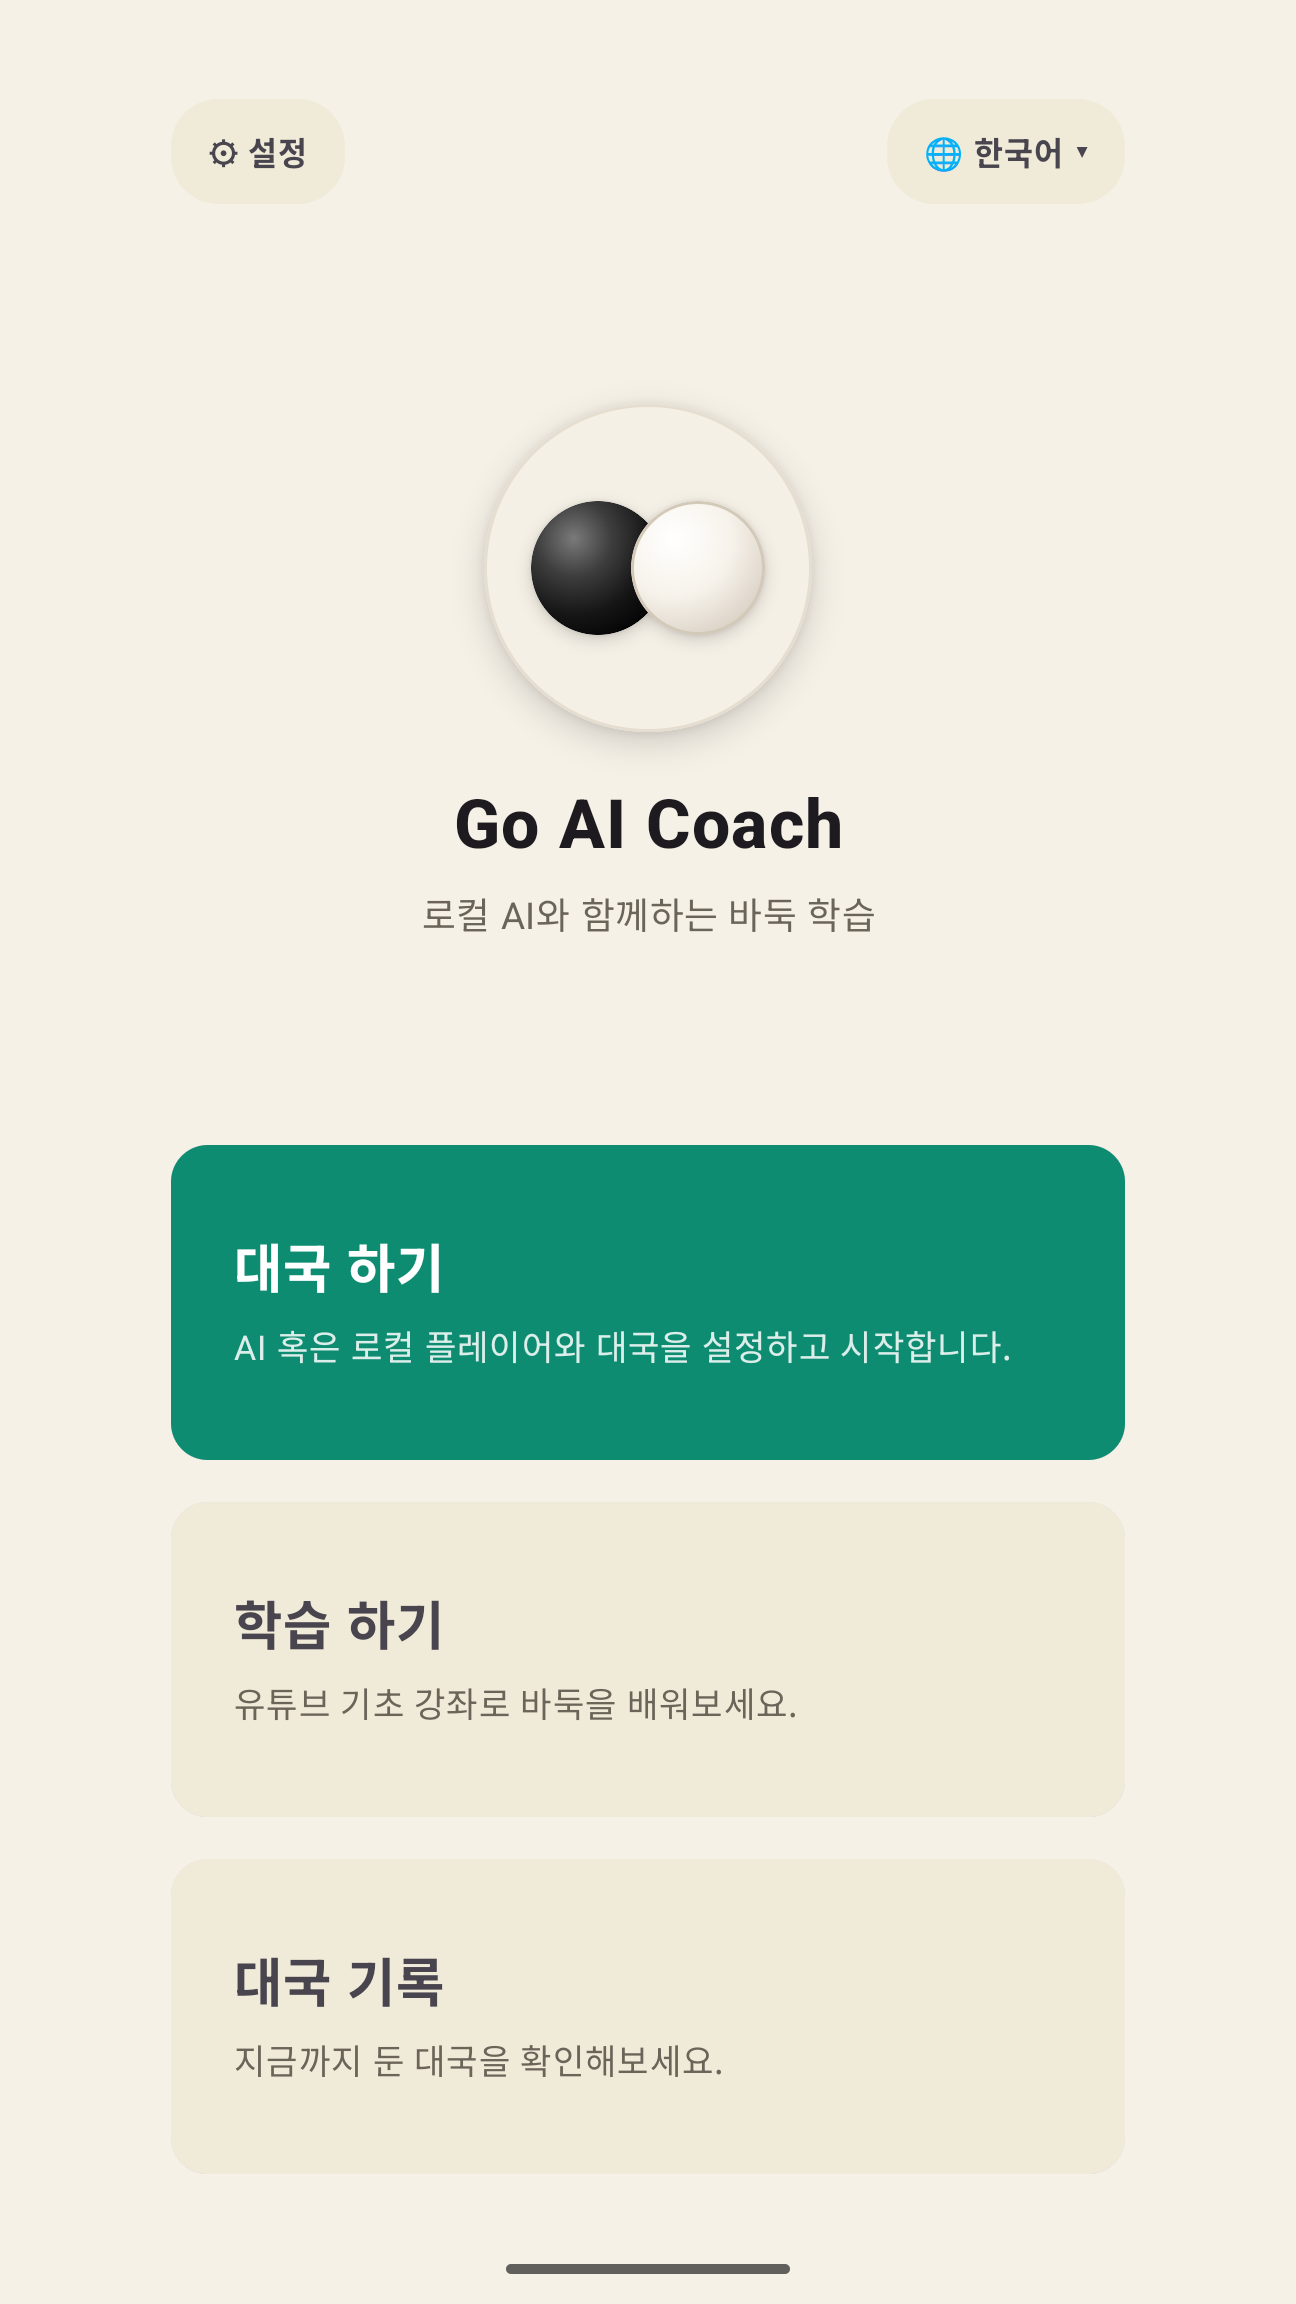
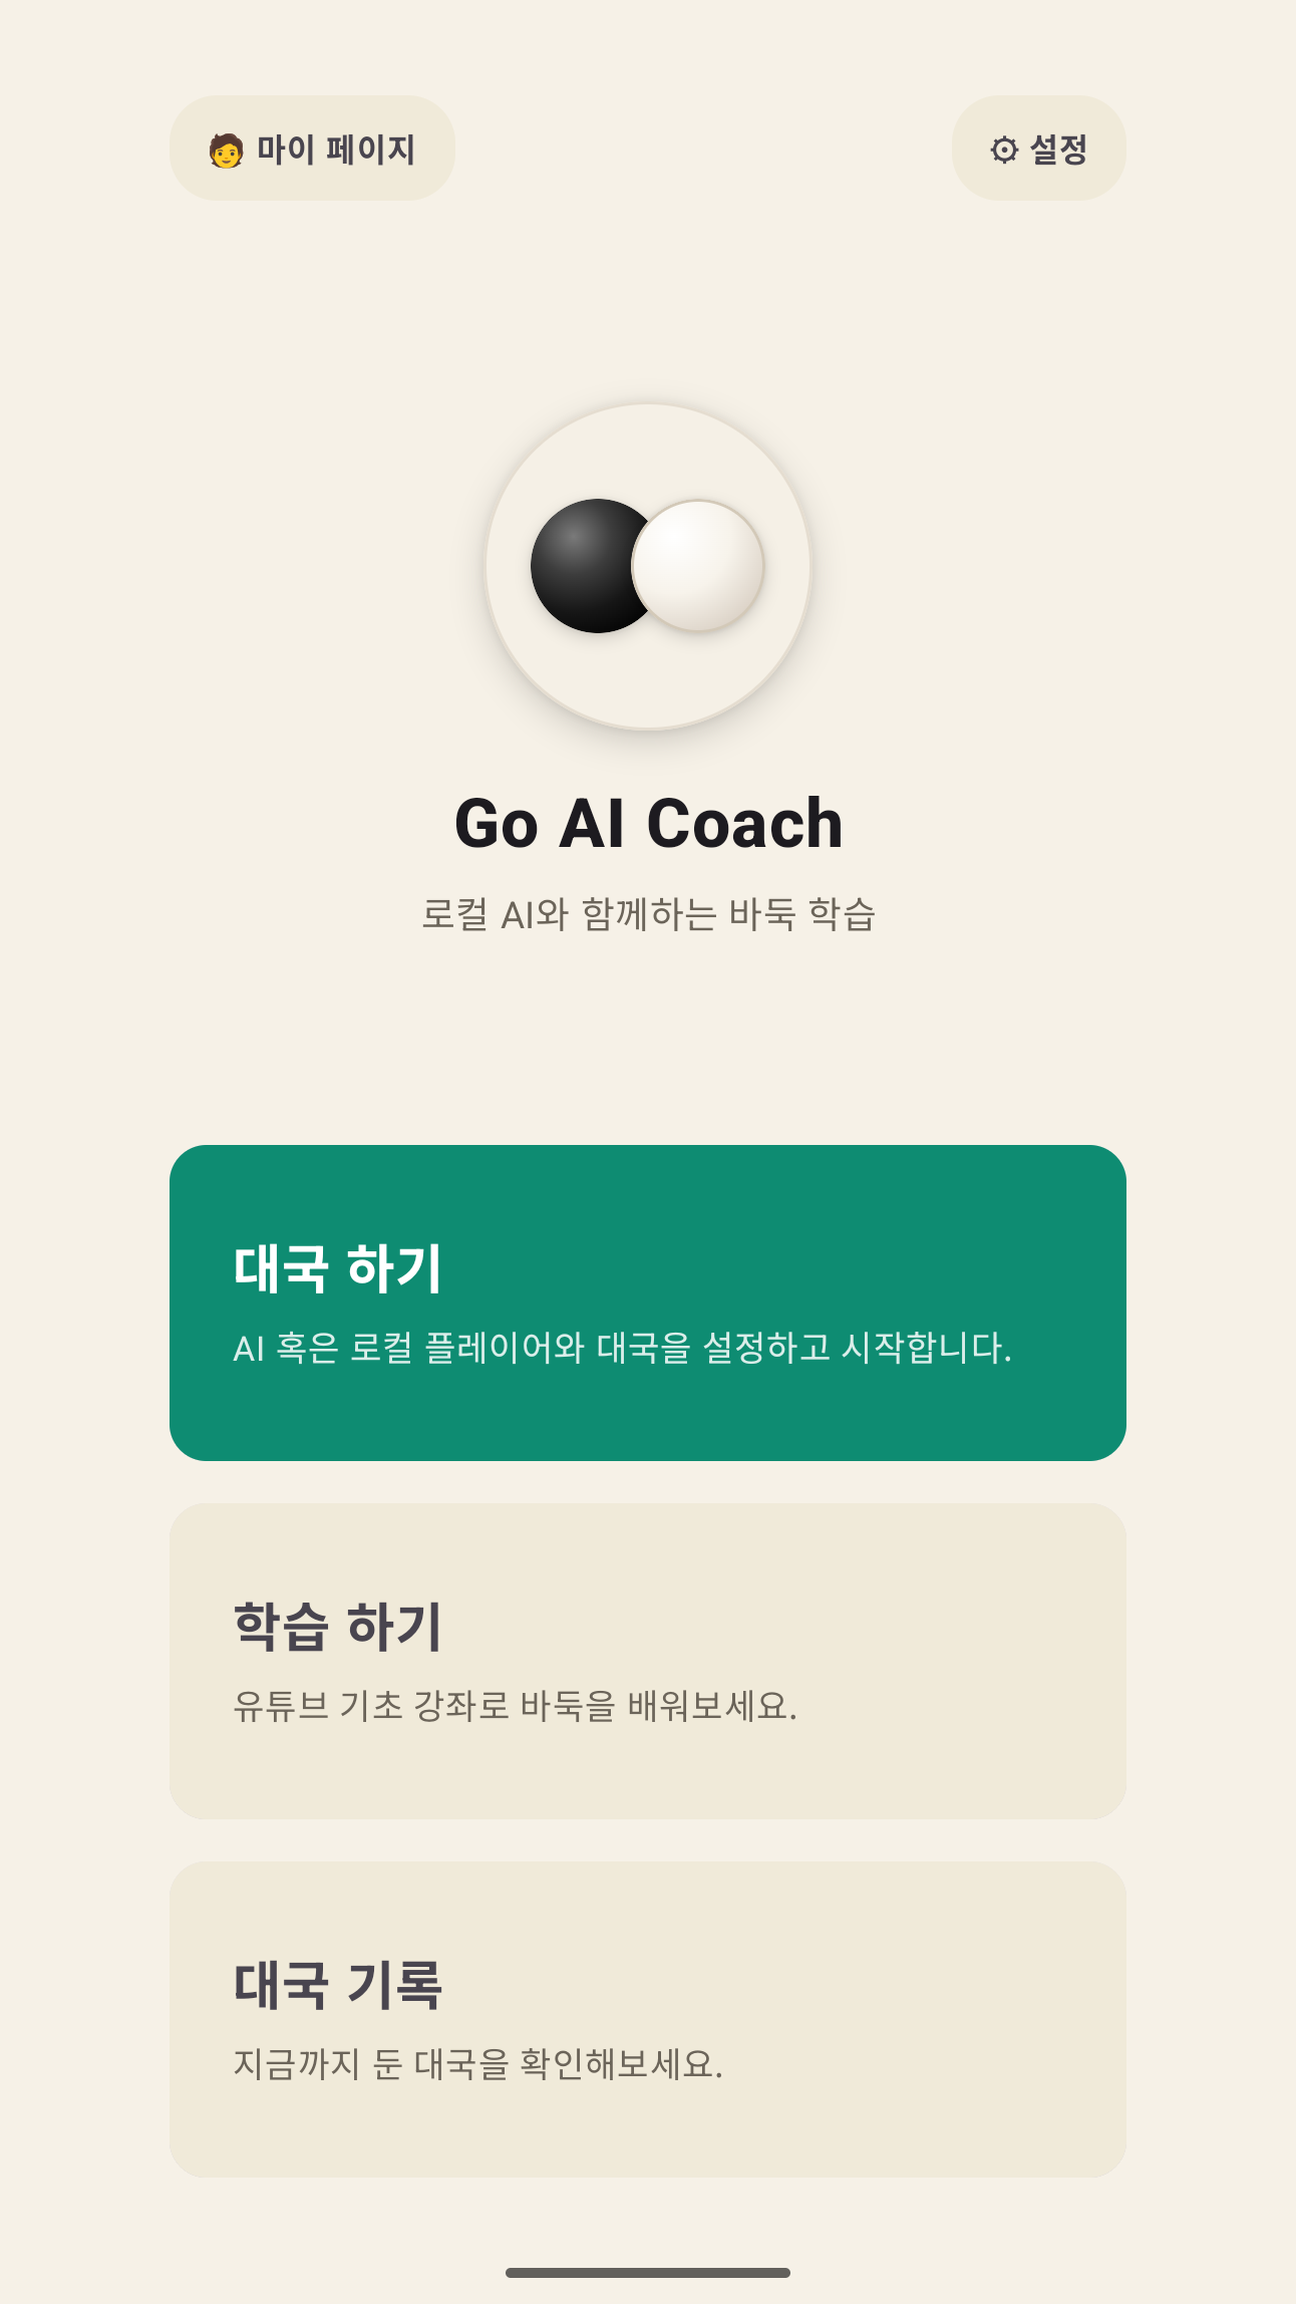
chore(release): recapture the store screenshots and build the private-test AAB (backlog #40)
All five shots were remade from HEAD 5b294f5 — the morning set went stale in
half a day once #34 reworked the home top bar and #35/#37/#38 reworked the game
screen. The 13x13 five-stone game was actually played out to move 21 on the
emulator rather than seeded, so the score graph and win rate are real engine
numbers.

The listing gained the three play controls this build introduced (play-mode
switch, play haptics, board size) and 01's description now matches the new home.
"No in-app purchases" still holds — both purchase flags are false.

⚠ One permission is new: VIBRATE, for the play haptics in #36. Comparing the
manifest against the previous local artifact (8/18) confirmed it is the only
addition and nothing was removed. It surfaces in the store's permission list, so
the feature list now names 착수 진동 explicitly.

AAB: 804 / 0.8.4, sha256 c8fefaae…584e25. Uploading is a console task.

diff --git a/design-handoff/export/2026-08-30-play-store-listing-and-screenshots/README.md b/design-handoff/export/2026-08-30-play-store-listing-and-screenshots/README.md
@@ -18,51 +18,51 @@
 
 ## 스크린샷 5장
 
-> ⚠ **이 세트는 캡처 당일(2026-08-30) 오후에 이미 낡았다 — 업로드 전 재캡처 필요.**
-> 아래 표와 캡처 조건은 **캡처 시점의 사실**이며 HEAD와 어긋난다.
-> - `01_home.png`: 카드 **3장**으로 찍혔으나 HEAD는 마이 페이지까지 **4장**을 그린다(be152cc, 백로그 #24).
-> - `03`·`04`: 하단 1회권 재고 바가 보이지만 HEAD에는 없다 — 남은 수가 버튼 괄호로 들어갔다(백로그 #24).
-> - 대국 종료 버튼 문구가 `새 대국 시작`이지만 HEAD는 `새 대국`이다(백로그 #29).
+다섯 장 모두 **2026-08-30 저녁, HEAD `5b294f5`(v0.8.3 / VERSION_CODE=803)에서 재캡처했다.**
+같은 날 오전 세트는 반나절 만에 낡았다 — 그 사이 홈과 대국 화면이 크게 바뀌었기 때문이다.
+지금 이 표와 아래 캡처 조건은 **HEAD와 일치한다.**
 
 | 파일 | 화면 |
 | --- | --- |
-| `01_home.png` | 홈 — 대국 하기 / 학습 하기 / 대국 기록 |
-| `02_setup_lobby.png` | 대국 설정 로비 |
+| `01_home.png` | 홈 — 상단 마이 페이지·설정 칩 + 대국 하기 / 학습 하기 / 대국 기록 |
+| `02_setup_lobby.png` | 대국 설정 로비 — 13x13 접바둑 5점, 프리미엄 업셀 카드 |
 | `03_eval_coaching.png` | 대국 중 형세 보기 ON — 보드 위 영역 음영 |
-| `04_gameplay.png` | 대국 기본 상태 — 1회권 재고 + 코칭 버튼 |
+| `04_gameplay.png` | 대국 기본 상태 — 코칭 버튼에 1회권 잔여 표시 |
 | `05_character_picker.png` | 상대 고르기 — 캐릭터별 획득 경로 |
 
 규격: **1296x2304, 9:16 정확 비율, PNG, RGB(알파 없음)**. 원본 1080x2400 캡처에서 상태
-표시줄 104px만 제거하고, 나머지는 **이미지 자신의 가장자리 색으로 패딩**해 비율을 맞췄다
-(05는 다이얼로그 스크림이 깔려 있어 앱 배경색으로 패딩하면 가장자리에 밝은 띠가 생긴다).
+표시줄 104px만 제거하고, 나머지는 **이미지 자신의 좌우 가장자리 열을 그대로 늘려** 패딩했다.
+단색으로 채우지 않는 이유는 05다 — 다이얼로그 스크림이 깔려 세로로 밝기가 변하므로 한 가지
+색으로 채우면 가장자리에 띠가 생긴다. 변환 스크립트는 커밋하지 않았다(20줄짜리 일회성이다).
 
-## 05가 다시 들어온 경위 — 2026-08-29의 제외 사유가 사라졌다
+## 오전 세트에서 무엇이 달라졌나
 
-2026-08-29에는 05를 **뺐다.** 그 컷에 관장 천원의 *"구매로 열려요"* 가 보이는데 실제 구매
-경로가 없어 오해를 살 수 있다는 판단이었다.
+컷 안에서 눈에 보이는 변화다. 등록정보 문구 쪽 변화는 `store_listing.txt` 끝에 적었다.
 
-**그 문구가 없어졌다.** 백로그 #23으로 5단계가 유료 구매에서 28일차 출석 보상으로 옮겨가면서,
-지금 그 줄은 *"출석 28일차에 받을 수 있어요"* 로 나온다. 로스터에 유료 전용 캐릭터가 하나도
-없으므로 오해의 소지 자체가 없다.
+- **01 홈**: 마이 페이지가 카드에서 빠져 좌상단 칩(🧑)이 되고 우상단에 설정(⚙) 칩이 생겼다.
+  카드는 대국/학습/기록 3장으로 정리됐다(백로그 #34).
+- **03·04 대국 화면**: 헤더가 2행이 됐다 — 1행에 빌드 태그·`수순 N수`·메뉴, 2행에 흑/백 좌석
+  요약을 폭 넓게 낮은 강조로 깔았다(#35). 바둑판 바로 위에 `여백`/`최대` 선택기가 붙었고
+  기본값은 `최대`다(#38). 착수 버튼 자리에는 `바로 착수`/`착수 확인` 전환 스위치가 있다(#37).
+- **02·05**: 오전과 같다. 관장 천원은 여전히 "출석 28일차에 받을 수 있어요"이고, 로스터에
+  유료 전용 캐릭터가 하나도 없다(#23).
 
-**결론: 05도 업로드한다**(2026-08-30 사용자 결정). `dist/`의 업로드 사본에 **01~05 다섯 장**이
-들어 있다. Play Console 휴대전화 스크린샷 한도는 8장이라 여유가 있다.
+## ⚠ 이번 빌드에서 권한이 하나 늘었다
 
-## 2026-08-29 세트와 무엇이 다른가
-
-- **05의 관장 천원 획득 경로 문구**가 "구매로 열려요" → "출석 28일차에 받을 수 있어요"로 바뀌었다
-  (백로그 #23). 이것이 이번 재캡처의 실질적인 이유다.
-- 01~04는 눈에 보이는 변화가 없다. 그래도 **같은 빌드에서 다시 찍었다** — 한 세트 안에 서로
-  다른 버전의 컷이 섞이면 나중에 "어느 것이 최신인가"를 다시 따져야 한다.
-- 캡처 빌드 태그는 컷 안에 `v260830.0252`로 찍혀 있다.
+착수 진동(#36) 때문에 `android.permission.VIBRATE`가 들어갔다. normal 권한이라 런타임
+프롬프트는 없지만 **스토어의 '앱 권한' 목록에는 노출된다.** 등록정보와 충돌하지 않는 것은
+확인했고(요금·차별점 문단은 결제와 계정 이야기라 권한을 언급하지 않는다), 자세한 설명의
+기능 목록에 '착수 진동'을 명시해 두었다.
 
 ## 캡처 조건 (재현용)
 
-에뮬레이터 Pixel 7 / API 35, 한국어. 앱 상태는 아래로 심었다:
+에뮬레이터 Pixel 7 / API 35, 한국어. 앱 상태는 `shared_prefs`에 직접 심었다(앱을 force-stop한
+뒤 `run-as`로 덮어썼다 — 실행 중에 쓰면 종료 시 앱이 다시 덮어쓴다):
 
 - 출석 7일차까지 전부 지급 완료 — 실행 시 Claim 팝업이 뜨지 않게
-- 저장된 대국 없음 — 홈이 신규 사용자와 같은 3카드 구성이 되게 *(캡처 시점 기준. HEAD는 4카드다 — 위 경고 참조)*
-- 프리미엄 비활성 + 무르기 클레임 완료 — 로비에 업셀 카드가 보이게
-- 캐릭터: 2단계 획득 / 4단계 조각 3개 / 나머지 미획득 — 픽커에 세 상태가 다 보이게
+- 저장된 대국 없음 — 홈이 신규 사용자와 같은 3카드 구성이 되게
+- 프리미엄 비활성(`source=None`) + 무르기 클레임 완료 — 로비에 업셀 카드가 보이게
+- 캐릭터: 2단계 획득 / 4단계 조각 3개 / 나머지 미획득 — 픽커에 획득·조각·잠금 세 상태가 다 보이게
 - 1회권: 형세 3, 추천 3, 광고 스킵 2
-- 대국: 13x13 접바둑 5점, 21수 진행. 03은 1회권으로 형세 보기를 켠 상태(재고 3→2)
+- 대국: 13x13 접바둑 5점, 21수 진행(흑=유저, 백=AI 첫돌이). 03은 1회권으로 형세 보기를 켠
+  상태(재고 3→2)라 04보다 형세 잔여가 하나 적다 — 의도한 것이다

diff --git a/launch-plan/README.md b/launch-plan/README.md
@@ -29,7 +29,7 @@
 
 ### ⚠ 갱신 필요 (있긴 한데 최신 상태와 어긋남)
 - **(260817 해소됨)** ~~스토어 등록정보 텍스트의 "요금 안내" 문단이 stale하다~~ — `store_listing.txt`의 "해당 대국 한 판(최대 1시간)" 문구를 "1시간 동안 활성화(그 안에 새 대국 여러 판 가능)"로 정정하고, 무르기 초기 클레임 프로모션 문장을 추가했다. `design-handoff/export/2026-08-17-v0.1.11/store_listing.txt`가 최신본. **→ 260830에 다시 갱신됨. 최신본은 `design-handoff/export/2026-08-30-play-store-listing-and-screenshots/`(스크린샷·등록정보·업로드 안내가 한 폴더에 있다).**
-- **(260817 해소됨)** ~~스크린샷도 v0.1.2(2026-08-11) 기준이라 최신 UI 미반영~~ — 4장 전부 v0.1.11(VERSION_CODE=111) 기준으로 에뮬레이터 재캡처. 실제로 액션 버튼 배열(분석 버튼 제거 등 2회 변경), 무르기 클레임 프로모션, 프리미엄 카드 문구(분석 항목 삭제), 홈 화면 "학습 하기" 부제(유튜브 강좌로 문구 자체가 변경) 전부 눈에 보이는 차이가 있었다 — 재캡처가 실제로 필요했음을 스크린샷 비교로 확인. 신규본은 `design-handoff/export/2026-08-17-v0.1.11/screenshots/`(디자이너 핸드오프 정본, PNG 1296x2304) + `dist/play-store-assets/{phone,tablet_7in,tablet_10in}_screenshots/`(업로드용 사본, gitignore 대상). **→ 260830에 다시 재캡처됨(v0.8.3). 최신본은 `design-handoff/export/2026-08-30-play-store-listing-and-screenshots/screenshots/`.**
+- **(260817 해소됨)** ~~스크린샷도 v0.1.2(2026-08-11) 기준이라 최신 UI 미반영~~ — 4장 전부 v0.1.11(VERSION_CODE=111) 기준으로 에뮬레이터 재캡처. 실제로 액션 버튼 배열(분석 버튼 제거 등 2회 변경), 무르기 클레임 프로모션, 프리미엄 카드 문구(분석 항목 삭제), 홈 화면 "학습 하기" 부제(유튜브 강좌로 문구 자체가 변경) 전부 눈에 보이는 차이가 있었다 — 재캡처가 실제로 필요했음을 스크린샷 비교로 확인. 신규본은 `design-handoff/export/2026-08-17-v0.1.11/screenshots/`(디자이너 핸드오프 정본, PNG 1296x2304) + `dist/play-store-assets/{phone,tablet_7in,tablet_10in}_screenshots/`(업로드용 사본, gitignore 대상). **→ 260830에 두 번 재캡처됐다(오전 v0.8.3, 저녁 v0.8.4). 최신본은 `design-handoff/export/2026-08-30-play-store-listing-and-screenshots/screenshots/`이며 폴더 안의 파일이 저녁 세트로 덮여 있다 — 같은 날 오전 세트는 반나절 만에 낡았다.**
   - ⚠ **그 세트도 같은 날 다시 낡았다(260830, 백로그 #24·#29).** 업로드 전에 재캡처할 것. `01_home.png`는 카드가 **3장**인데 HEAD는 마이 페이지까지 **4장**을 그리고(be152cc), 대국 화면 스샷은 걷어낸 1회권 재고 바와 옛 버튼 문구(`새 대국 시작`)를 그대로 담고 있다. **이 폴더가 '최신'인 것은 같은 날 자산 중에서일 뿐, HEAD 기준이 아니다.**
 
 ### 참고 — 이번 방향(초도 발행 먼저, 고도화는 이후)에 대한 의견
@@ -76,21 +76,31 @@
 내부 테스트 트랙에 올라가 있는 AAB는 버전 2(0.1.1, 2026-08-06)로 **targetSdk 상향보다 엿새 앞선다.**
 따라서 해소 방법은 SDK를 올리는 것이 아니라 **현재 소스로 AAB를 새로 빌드해 올리는 것**이다.
 
-**빌드 완료(2026-08-29)**: 사용자 승인으로 `make play-internal-aab`을 돌렸다 — 비공개 테스트
-14일 요건이 아직 진행 중이라 같은 내부 테스트 트랙에 올리는 쪽이 안전하다는 판단.
+**빌드 완료(2026-08-30 갱신)**: 8/29 빌드(803)는 **올리기 전에 낡았다** — 그날 저녁까지 홈과
+대국 화면이 크게 바뀌었다(백로그 #34~#38). 그래서 8/30에 다시 빌드했고, **업로드 대상은 아래
+804다.** 803은 콘솔에 올라간 적이 없다.
 
 | 항목 | 값 |
 | --- | --- |
 | 산출물 | `dist/go-ai-coach-play-internal.aab` (111MB, gitignored) |
[1 lines of base64/hex data omitted]
-| versionCode / versionName | **803 / 0.8.3** (`bump-version`이 0.8.2 → 0.8.3으로 자동 증가) |
[1 lines of base64/hex data omitted]
+| versionCode / versionName | **804 / 0.8.4** (`bump-version`이 0.8.3 → 0.8.4로 자동 증가) |
 | targetSdk / minSdk | **36 / 26** |
+| 빌드 명령 | `make play-internal-aab TARGET=emu` — ⚠ 기기가 둘 연결돼 있으면 `doctor`가 막는다 |
 
-수치는 추정이 아니라 **번들 안의 바이너리 매니페스트를 aapt2로 직접 덤프해** 확인한 것이다
-(`targetSdkVersion=36`, `versionCode=803`) — 게시 번들이 0.1.1이던 것이 경고의 원인이었으므로,
-소스가 아니라 산출물에서 확인하는 것이 이 항목의 요점이다.
+수치는 추정이 아니라 **번들 안의 매니페스트를 직접 열어** 확인한 것이다(`versionName=0.8.4`) —
+게시 번들이 0.1.1이던 것이 경고의 원인이었으므로, 소스가 아니라 산출물에서 확인하는 것이 이
+항목의 요점이다.
 
-**남은 것은 콘솔 업로드뿐이며 사용자 몫이다.**
+⚠ **이 빌드부터 권한이 하나 늘었다**: 착수 진동(백로그 #36) 때문에
+`android.permission.VIBRATE`가 들어간다. 직전 산출물(`dist/go-ai-coach-release.aab`, 8/18)과
+매니페스트를 실제로 비교해 **늘어난 것이 이것 하나뿐이고 줄어든 것은 없음**을 확인했다.
+normal 권한이라 런타임 프롬프트는 없지만 스토어 '앱 권한' 목록에는 노출되므로, 등록정보
+기능 목록에 '착수 진동'을 명시해 두었다.
+
+**남은 것은 콘솔 업로드뿐이며 사용자 몫이다.** 스크린샷·등록정보 정본은
+`design-handoff/export/2026-08-30-play-store-listing-and-screenshots/`이며, 8/30 저녁에
+다섯 장 전부 이 빌드 기준으로 재캡처했다.
 
 ---
 
